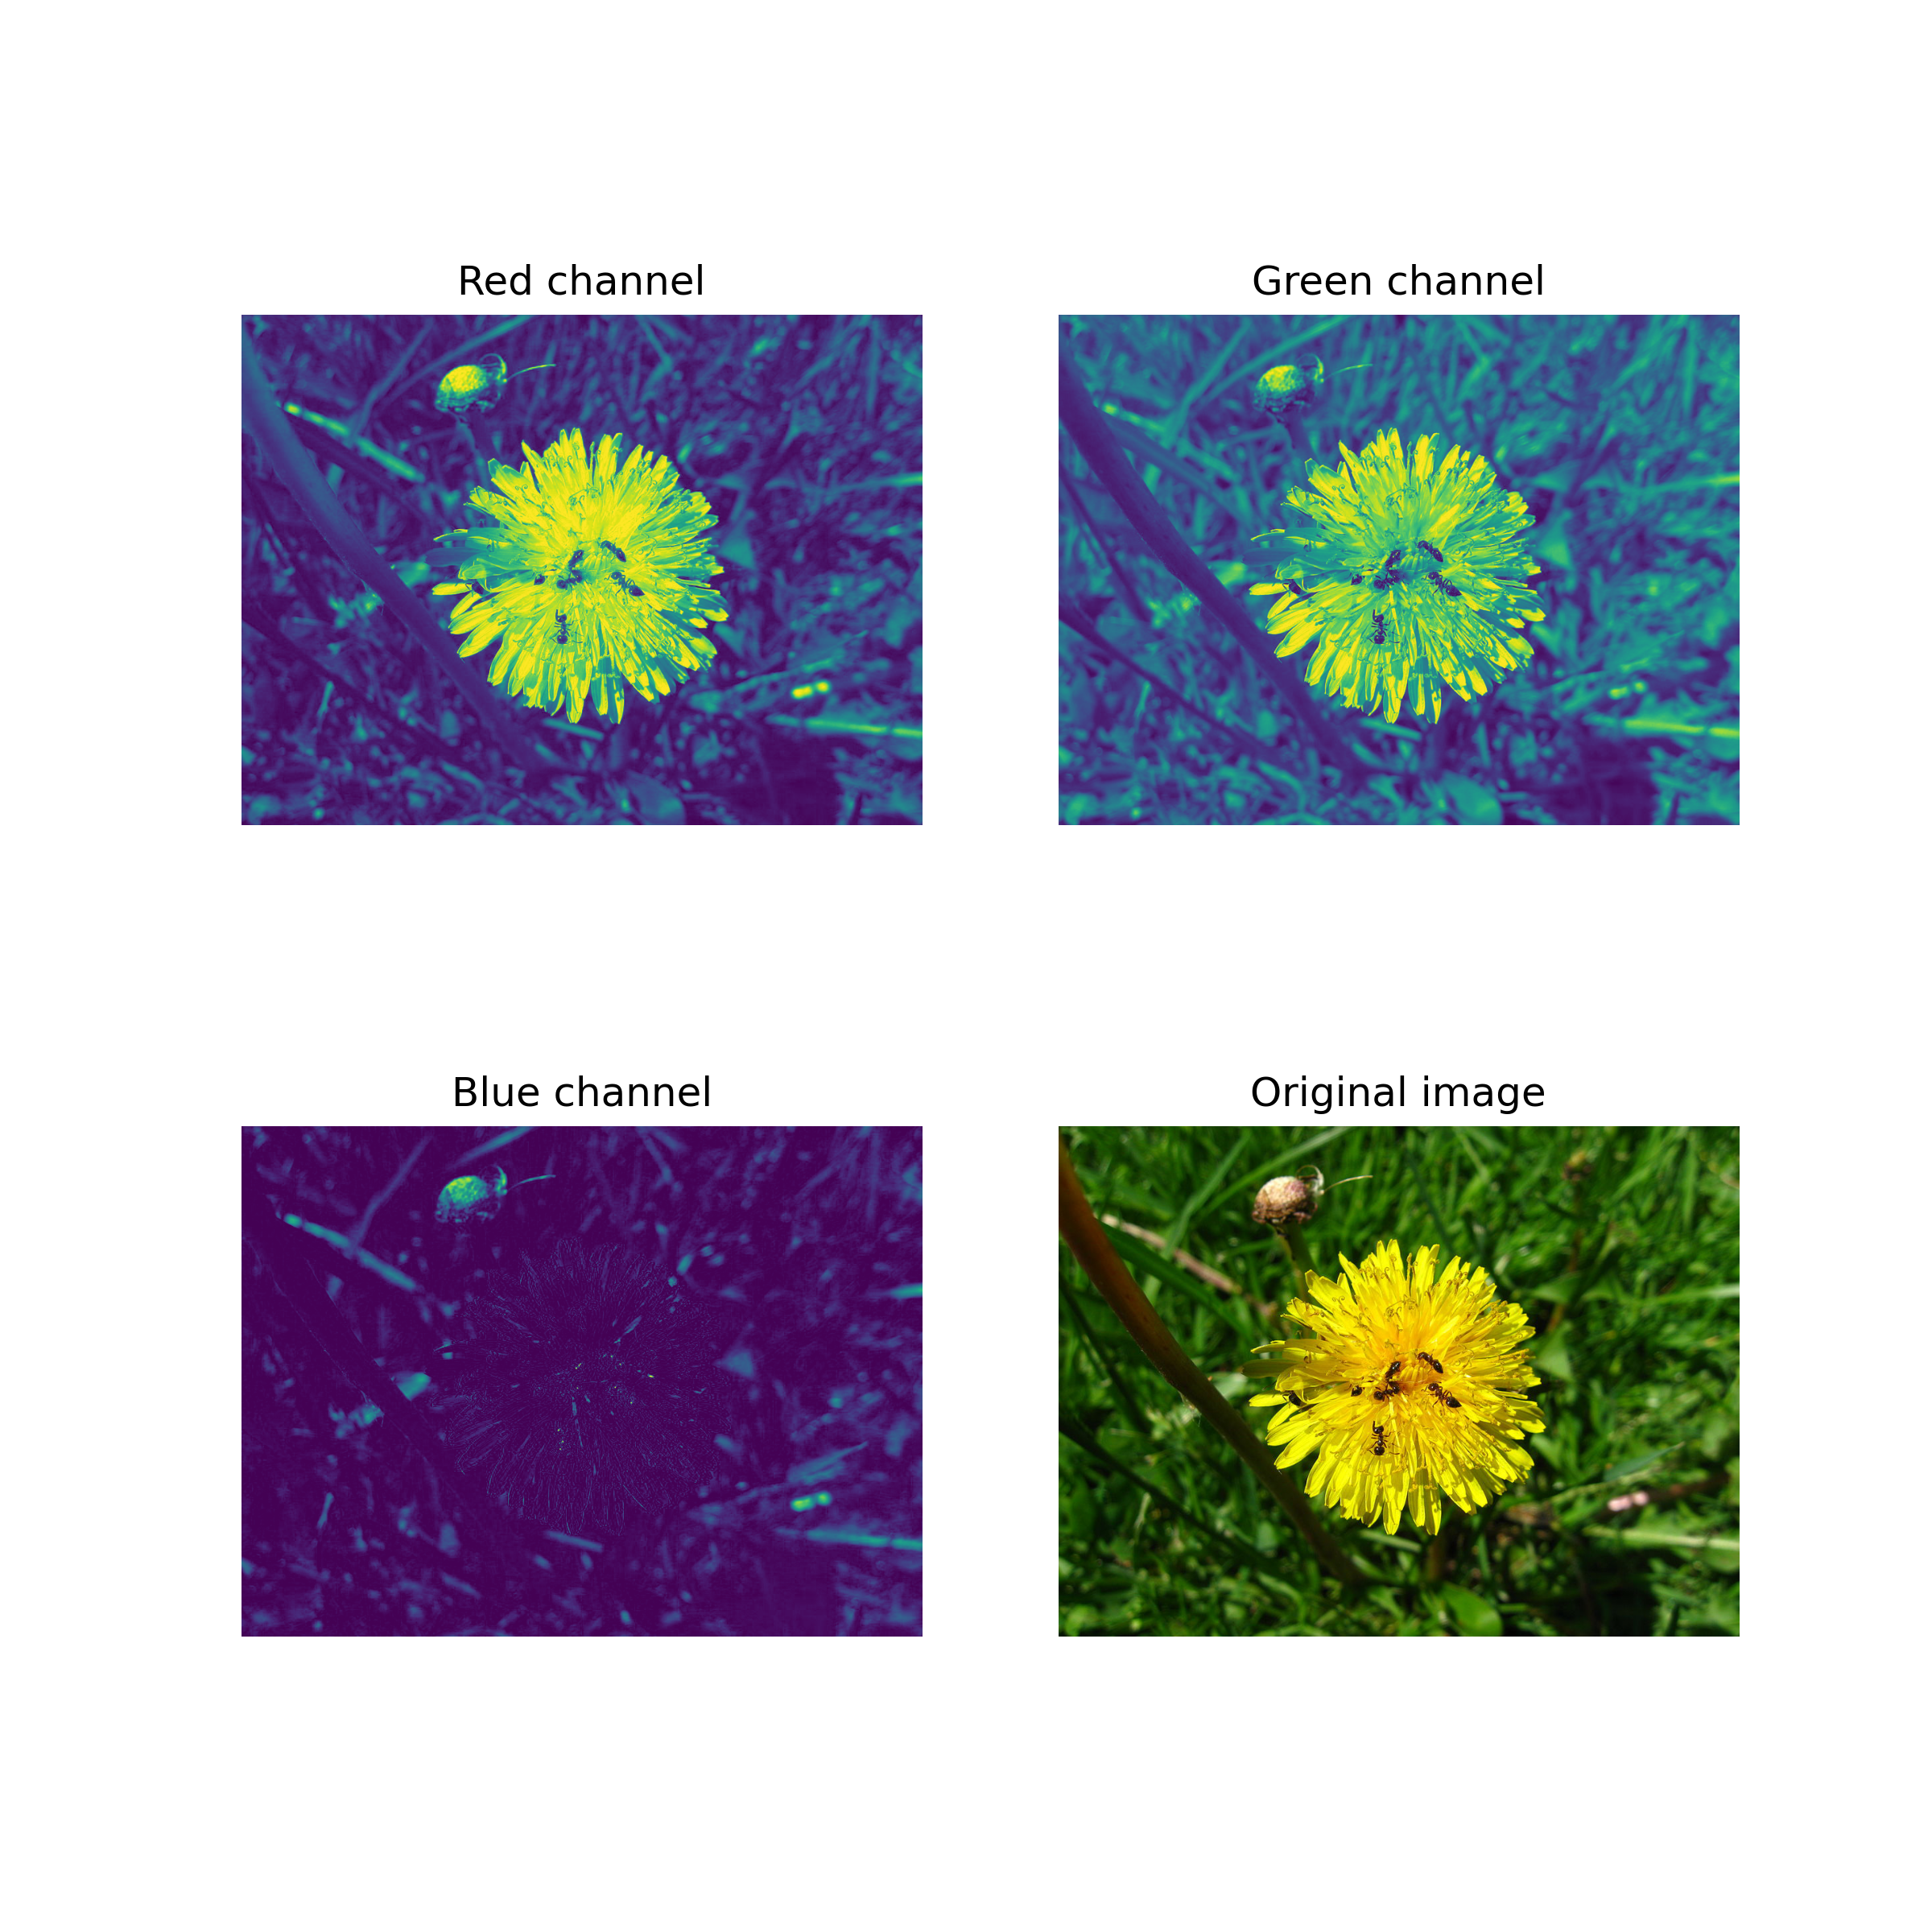
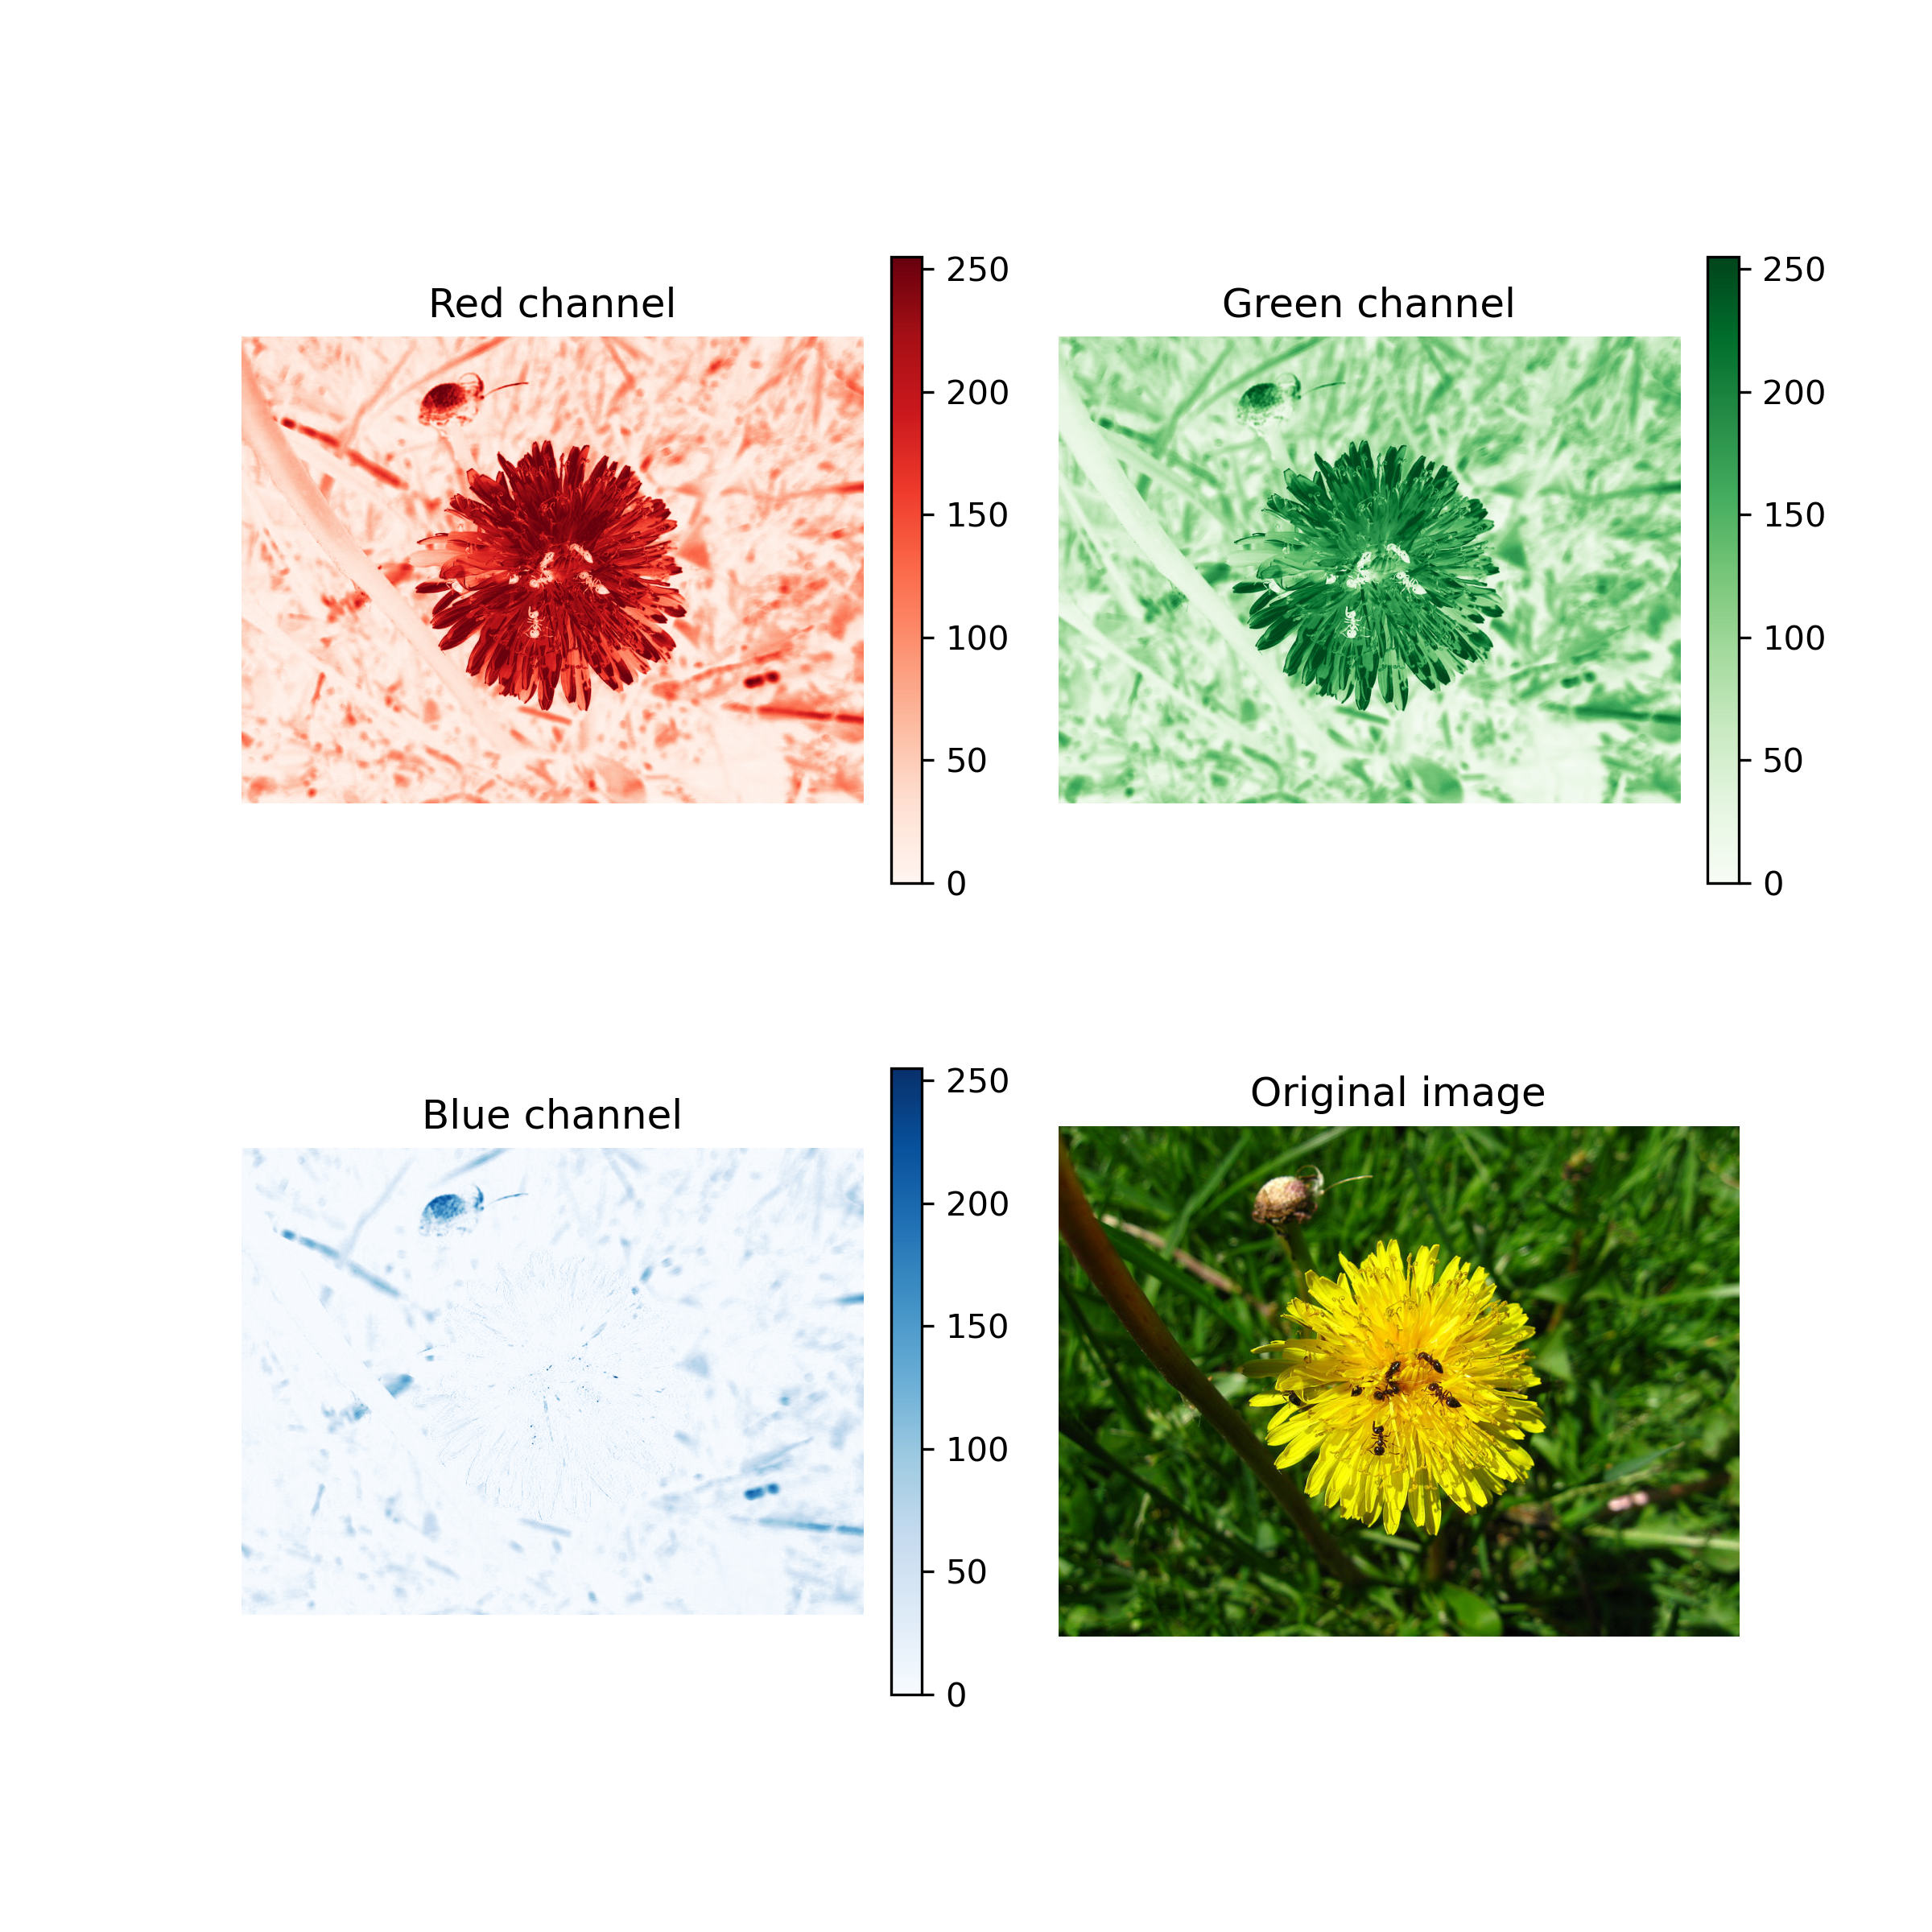
Add input/XRay_raw.xslx, output/XRay_30kV.png, and 05_xrd-analysis.py

Changed region(s): [[0.125, 0.125, 0.9375, 0.4688], [0.125, 0.5312, 0.5, 0.875]]

diff --git a/py scripts/05_xrd-analysis.py b/py scripts/05_xrd-analysis.py
@@ -1,0 +1,102 @@
+import pandas as pd
+import matplotlib.pyplot as plt
+import numpy as np
+
+"""This is a simple example of reading X-Ray diffraction (XRD) data from a xlsx file 
+using pandas, plotting the data, and performing basic analysis.
+
+In the Bragg diffraction, X-rays at a crystal plane will be scattered at the same angle 
+as the angle of incidence θ, as shown in Figure 1. Furthermore, when the path difference 
+is equal to an integer multiple n of the wavelength λ, this will result in a constructive 
+interference. The lattice constant d of the crystal can be found from the Bragg’s law, 
+nλ = 2dsinθ
+
+The lattice constant of a lithium fluoride (LiF) crystal is calculated from the full 
+spectrum. The emission current is set to 0.05 mA. The count rate is measured at each 
+detector angle 2θ in the 2:1 coupled mode (the detector moves at twice the angular 
+speed of the sample, such that 2θ is always exactly twice θ), with the angle increment 
+of 0.1 degree. The starting angle and stopping angle is set to θ = 5 degrees and θ = 60 
+degrees respectively. The accelerating voltage is set to 30 kV.
+
+This data is measured by me in 2019."""
+
+# Read the data from the xlsx file
+data_30kV = pd.read_excel("input/XRay_raw.xlsx", sheet_name="30_full").dropna()
+print(data_30kV.head())
+
+
+def find_peaks(angle, count, threshold=2):
+    # Find peaks in the data above a certain threshold.
+    peaks = []
+    counter = 0
+    count_copy = np.copy(count)
+    count_copy[:141] = 0  # Ignore low angle region which is the whale back
+
+    while counter < 3:
+        i_count_max = np.argmax(count_copy)
+        if ((count_copy[i_count_max] - count_copy[i_count_max-1]) >= threshold) and \
+           ((count_copy[i_count_max] - count_copy[i_count_max+2]) >= threshold) and \
+            count_copy[i_count_max] > threshold:
+            # Mainly using left shoulder to find peak as left shoulder is sharper
+            # Exclude small peaks by setting a threshold
+            peaks.append([angle[i_count_max], count[i_count_max]])
+        
+        else:
+            counter += 1
+            # if no peak found, increase counter
+            # if counter reaches 3, exit the loop
+        
+        count_copy[i_count_max-5:i_count_max+6] = 0  
+        # Zero out the peak region to find next peak
+
+    return np.array(peaks)
+
+
+theta = data_30kV['theta']
+rate = data_30kV['rate']
+theta = np.array(theta)
+rate = np.array(rate)
+
+plt.figure(figsize=(10, 6))
+plt.plot(theta, rate, label="30 kV", color="blue")
+plt.show()
+
+# Find peaks in the data
+peaks = find_peaks(theta, rate)
+print("Peaks:", peaks)
+
+# Calculate lattice constant using Bragg's law
+K_a = 0.154  # nm, wavelength of K-alpha X-ray for Cu target
+K_b = 0.139  # nm, wavelength of K-beta X-ray for Cu target
+K_values = [K_a, K_b]  # Wavelengths for the peaks
+d_values = []
+
+for n in (1, 2): 
+    if n == 1:
+        for peak, K in zip(peaks[:2], K_values):   
+            d = n * K / (2 * np.sin(np.radians(peak[0]))) 
+            d_values.append(d)
+    else: 
+        for peak, K in zip(peaks[2:], K_values):   
+            d = n * K / (2 * np.sin(np.radians(peak[0]))) 
+            d_values.append(d)
+d_values = np.array(d_values)
+print("Lattice constants (nm):", d_values)
+print("Average lattice constant (nm):", np.mean(d_values))
+
+# Plot the data with peaks annotated
+labels = ["K_\\alpha", "K_\\beta", "K_\\alpha", "K_\\beta"]  # Labels for the peaks
+plt.figure(figsize=(10, 6))
+plt.plot(theta, rate, label="30 kV", color="blue")
+for peak, label in zip(peaks, labels):
+    plt.plot(peak[0], peak[1], 'ro', alpha = 0.3)  # Mark the peaks
+    plt.annotate("${}$ ({},{})".format(label, peak[0], peak[1]), (peak[0]-1, peak[1]), horizontalalignment='right')  
+    # Annotate the peaks
+plt.xlabel("Theta (degrees)")
+plt.ylabel("Count Rate (counts/s)")
+plt.title("X-Ray Diffraction Pattern of LiF Crystal at 30 kV")
+plt.legend()
+plt.grid()
+plt.ylim(0, 120)
+plt.savefig("output/XRay_30kV.png", dpi=300)
+plt.show()

diff --git a/py scripts/04_skimage.py b/py scripts/04_skimage.py
@@ -4,7 +4,7 @@ import matplotlib.pyplot as plt
 
 # Load the image of the labrador
 # From https://commons.wikimedia.org/wiki/File:Afra_013.jpg
-#labrador = io.imread('Afra_013.jpg')
+# Using relative path, root base is python-basics\python-basics folder
 labrador = io.imread("input/Afra_013.jpg")
 # Convert the image to grayscale
 gray_labrador = color.rgb2gray(labrador)
@@ -19,27 +19,31 @@ plt.show()
 ants = io.imread("input/Ants_on_a_dandelion.jpg")
 print(ants.shape)  # (height, width, channels)
 
-
+# Display the three color channels separately
 fig, ax = plt.subplots(2,2, figsize=(8,8))
-ax[0][0].imshow(ants[:,:,0])
+red_ch = ax[0][0].imshow(ants[:,:,0], cmap="Reds")
 ax[0][0].set_title("Red channel")
 ax[0][0].axis("off")
+plt.colorbar(red_ch, ax=ax[0][0], fraction=0.046, pad=0.04)
 
-ax[0][1].imshow(ants[:,:,1])
+green_ch = ax[0][1].imshow(ants[:,:,1], cmap="Greens")
 ax[0][1].set_title("Green channel")
 ax[0][1].axis("off")
+plt.colorbar(green_ch, ax=ax[0][1], fraction=0.046, pad=0.04)
 
-ax[1][0].imshow(ants[:,:,2])
+blue_ch = ax[1][0].imshow(ants[:,:,2], cmap="Blues")
 ax[1][0].set_title("Blue channel")
 ax[1][0].axis("off")
+plt.colorbar(blue_ch, ax=ax[1][0], fraction=0.046, pad=0.04)
 
+# Original rgb image
 ax[1][1].imshow(ants)
 ax[1][1].set_title("Original image")
 ax[1][1].axis("off")
 plt.savefig("output/ants_channels.png", dpi=300)
 plt.show()
 
-#thresholding on gray scale image
+# Thresholding on gray scale image
 gray_ants = color.rgb2gray(ants)
 thresh = threshold_otsu(gray_ants)
 binary_ants = gray_ants > thresh

diff --git a/README.md b/README.md
@@ -1,33 +1,50 @@
 # python-basics
-Repository to revise my Python basics, including the use of numpy, matplotlab, etc.
+Repository to revise my Python basics, including the use of numpy, matplotlib, pandas, and other Python libraries.  
+Includes small demo scripts as well as a full analysis of X-Ray diffraction (XRD) data.
+
+---
 
 ## Contents
-**Sine and Cosine Plots**  
-File: `py scripts/01_sine_cosine.py`  
-Demonstrates plotting sine, cosine, and their squares on subplots.  
-Libraries used: numpy, matplotlib  
+
+### **Sine and Cosine Plots**  
+- **File:** `py scripts/01_sine_cosine.py`  
+- **Description:** Plot sine, cosine, and their squares on subplots.  
+- **Libraries used:** numpy, matplotlib  
+
+**Example Output:**  
 ![Sine and Cosine Plots](output/sine_cosine_plots.png)
 
-**Show Numpy Array as an Image**  
-File: `py scripts/02_numpy-imshow.py`  
-Demonstrates creating a numpy array with zeroes, changing the values and plotting the values as an image.  
-Libraries used: numpy, matplotlib  
+---
+
+### **Show Numpy Array as an Image**  
+- **File:** `py scripts/02_numpy-imshow.py`  
+- **Description:** Create a numpy array with zeroes, change values, and plot the values as an image.  
+- **Libraries used:** numpy, matplotlib  
+
+**Example Output:**  
 ![Numpy Array As an Image](output/numpy_imshow.png)  
 
-**Random Samples and Histograms (Central Limit Theorem)**  
-File: `py scripts/03_random-histogram.py`  
-Generate random samples from a normal distribution, find mean of each sample and plot the sample means of each histogram. As the sample size increases, the distribution of the sample mean will be closer to a normal distribution.  
-Libraries used: numpy, matplotlib  
+---
+
+### **Random Samples and Histograms (Central Limit Theorem)**  
+- **File:** `py scripts/03_random-histogram.py`  
+- **Description:** Generate random samples from a normal distribution, compute sample means, and plot histograms. Demonstrates how the sample mean distribution approaches normality as sample size increases.  
+- **Libraries used:** numpy, matplotlib  
+
+**Example Output:**  
 ![Random Histogram](output/random_histogram.png)  
 
-**Image Processing with scikit-image**  
-File: `py scripts/04_skimage.py`  
-Demonstrates basic image processing techniques:  
-- Convert a color image to grayscale.  
-- Display RGB channels separately with the original image.  
-- Apply Otsu’s thresholding method to segment a grayscale image.  
-Libraries used: scikit-image, matplotlib  
+---
 
+### **Image Processing with scikit-image**  
+- **File:** `py scripts/04_skimage.py`  
+- **Description:** Demonstrates basic image processing techniques:  
+  - Convert a color image to grayscale  
+  - Display RGB channels separately alongside the original image  
+  - Apply Otsu’s thresholding method to segment a grayscale image  
+- **Libraries used:** scikit-image, matplotlib  
+
+**Example Output:**  
 Grayscale Labrador:  
 ![Labrador Gray](output/labrador_gray.png)  
 
@@ -37,3 +54,18 @@ RGB Channels and Original Ants Image:
 Otsu Thresholded Binary Ants Image:  
 ![Ants Binary](output/ants_binary.png)  
 
+---
+
+### **X-Ray Diffraction (XRD) Analysis of LiF Crystal**  
+- **File:** `py scripts/05_xrd-analysis.py`  
+- **Description:** Reads experimental XRD data from Excel, plots the diffraction spectrum, identifies peaks, and calculates the lattice constant using Bragg’s law.  
+- **Libraries used:** pandas, numpy, matplotlib, openpyxl  
+
+**Example Output (Plot):**  
+![XRD Pattern](output/XRay_30kV.png)  
+
+**Example Output (Console):**  
+```text
+Peaks: [[22.5, 95], [32.1, 88], [46.7, 77], [54.3, 80]]
+Lattice constants (nm): [0.402, 0.216, 0.401, 0.218]
+Average lattice constant (nm): 0.309